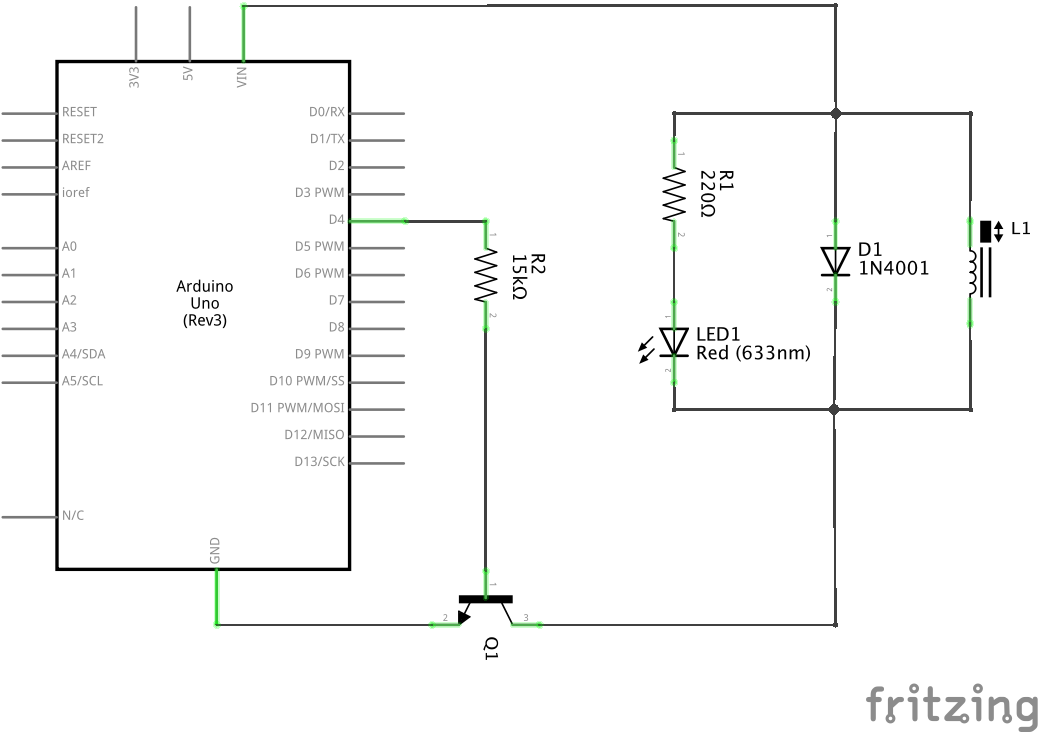
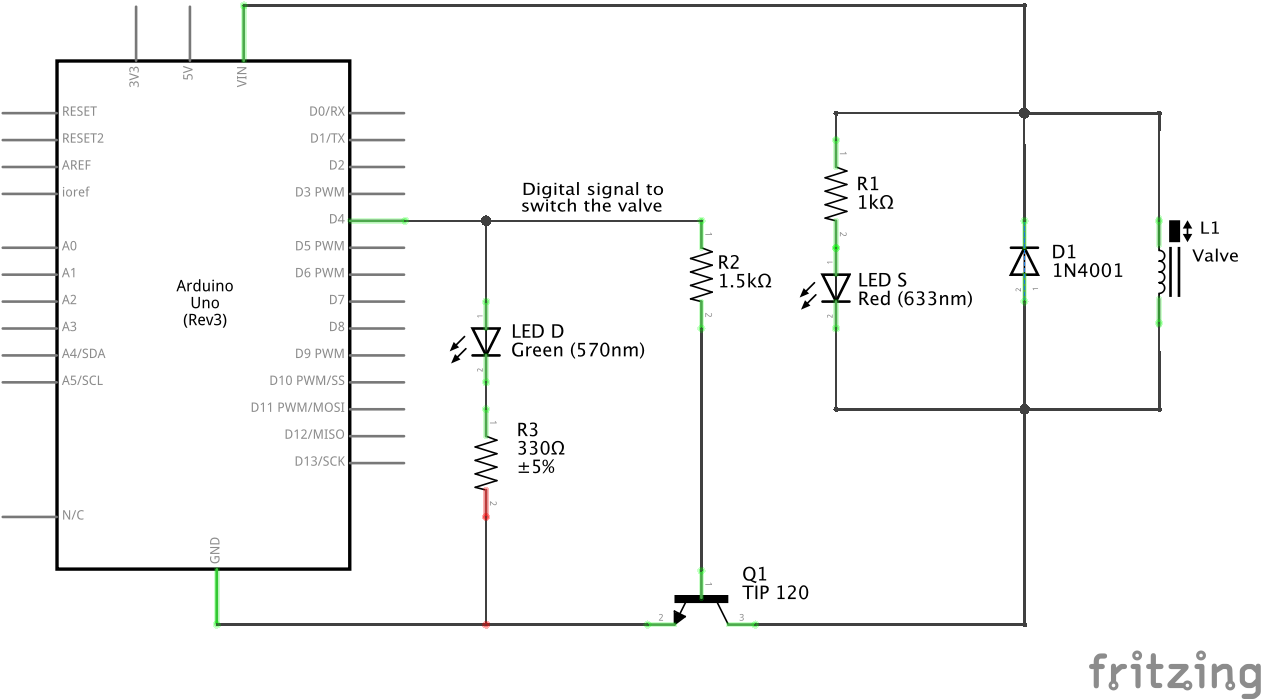
Updating research papers

diff --git a/research.html b/research.html
@@ -14,15 +14,21 @@ learning, always from a physics perspective.</p>
 
 <ul class="publications">
   <li>
+    <b>T. Mosqueiro</b>, C. Cook, R. Huerta, J. Gadau, B. Smith, N. Pinter-Wollman.
+    <a href="https://arxiv.org/abs/1703.04731" target="_blank"> Task
+    allocation and site fidelity jointly influence foraging regulation
+    in honey bee colonies</a> <i>Submitted (under review).</i>
+  </li>
+    <li>
+    R. F. Guariento, <b>T. Mosqueiro</b>, P. Matias, V. B. Cesarino, L. O. B. Almeida, J. F. W. Slaets, L. P. Maia, R. D. Pinto.
+    <a href="https://www.researchgate.net/publication/304787186_Automated_pulse_discrimination_of_two_freely-swimming_weakly_electric_fish_and_analysis_of_their_electrical_behavior_during_a_dominance_contest"
+    target="_blank">Automated pulse discrimination of two freely-swimming weakly electric fish and analysis of their electrical behavior during a dominance contest</a> <i>Accepted for Journal of Physiology - Paris (preprint available).</i>
+  </li>
+  <li>
     R. Huerta, <b>T. Mosqueiro</b>, J. Fonollosa, N. F.
     Rulkov, I. Rodriguez-Lujan.
     <a href="https://www.researchgate.net/publication/305385157_Online_decorrelation_of_humidity_and_temperature_in_chemical_sensors_for_continuous_monitoring?ev=contentfeed&homeFeedVariantCode=oc_EU&_iepl[viewId]=unoxBpaJWAf9rBVJ0WRl7gbf&_iepl[singleItemViewId]=1jkbDntBNpc7qk4Q1DQJIDnR&_iepl[activityId]=731420972683287%2C731420574224412%2C731419810865167&_iepl[activityType]=person_add_publication&_iepl[activityTimestamp]=1468825549&_iepl[homeFeedVariantCode]=oc_EU&_iepl[contexts][0]=homeFeed&_iepl[interactionType]=publicationView"
     target="_blank">Online decorrelation of humidity and temperature in chemical sensors for continuous monitoring.</a> <i>Chemometrics and Intelligent Laboratory Systems (2016).</i>
-  </li>
-  <li>
-    R. F. Guariento, <b>T. Mosqueiro</b>, P. Matias, V. B. Cesarino, L. O. B. Almeida, J. F. W. Slaets, L. P. Maia, R. D. Pinto.
-    <a href="https://www.researchgate.net/publication/304787186_Automated_pulse_discrimination_of_two_freely-swimming_weakly_electric_fish_and_analysis_of_their_electrical_behavior_during_a_dominance_contest"
-    target="_blank">Automated pulse discrimination of two freely-swimming weakly electric fish and analysis of their electrical behavior during a dominance contest</a> <i>Submitted (preprint available online).</i>
   </li>
   <li>
     <b>T. Mosqueiro</b>, M. Strube-Bloss, R. Tuma, R. Pinto, B. Smith

diff --git a/_includes/head.html b/_includes/head.html
@@ -23,6 +23,6 @@
     <link href='https://fonts.googleapis.com/css?family=Open+Sans|Montserrat' rel='stylesheet' type='text/css'>
     <link href='https://fonts.googleapis.com/css?family=Lato|Raleway' rel='stylesheet' type='text/css'>
 
-    {% include ganalytics.html %}
+    <!-- {% include ganalytics.html %} -->
 
   </head>

diff --git a/about/index.html b/about/index.html
@@ -5,11 +5,7 @@ layout: standard_layout
 
 <h1>About</h1>
 
-
-<div class="col-md-3 col-md-push-9">
-
-</div>
-<div class="col-md-9 col-md-pull-3">
+<div style="width: 80%;">
   <p>
     My name is Thiago Mosqueiro, physicist by training, and big fan of
     rock 'n roll, movies and science (especially together). I am

diff --git a/_posts/2017-02-15-Women-Hard-Sciences.md b/_posts/2017-02-15-Women-Hard-Sciences.md
@@ -1,0 +1,65 @@
+---
+layout: posts
+title: The day I failed my female classmates
+tags: Education NotReady
+mathjax: false
+comments: true
+---
+
+![](/files/posts/2017-women-science/IMG_20161202_094958_snap.jpg){: .post-img-inset}
+
+<!-- Split Here - IMG-snapshot -->
+
+I feel very strongly about this topic: gender inequality in science and technology. Partially, because my wife is a PhD candidate in Computer Science. Not to say many friends in academy or industry. This September, I was invited by one of the leaders of the [PyLadies - São Carlos](http://saocarlos.pyladies.com/) chapter to give a brief talk. I loved the idea and decided to speak of some of the many wonderful female scientists I interacted with during my short experience in academia. After the talk, we had an open session to discuss many of the issues that most women still face in science-based careers (both in academia and industry). During this session, I remembered a story that happened almost ten years ago. I decided to share this story and openly acknowledge it.
+
+<!-- Split Here - Snapshot -->
+
+<img src="/files/posts/2017-women-science/IMG_20161202_094958.jpg"
+alt="..." class='post-img' style="width:80%;" />
+
+
+
+## Once upon a time...
+
+In my freshman year, we were 40. We were  36 men and four women. This ratio is pretty close to that of almost all physics courses around the world, although this has been changing; slowly, but changing. More precisely, improving. In our first semester, *Introduction to Computer Programming* was mandatory to everyone. The instructor was knowleadgeble and very didactic, except that he loved to stop the class at random points for jokes. I used to find most of them funny. In fact, most of them were about his ex-wife, who - according to him - would love to go to Paris and spend "his" money. Not all jokes were about his wife, many were about women in general. The punch line punctuated how they aren’t that smart, or how much they love spending with makeup, or how they would always look for guys with expensive cars. 
+
+This professor was popular. Everyone was enjoying the jokes and laughing together. Except for those four students. As a matter of fact, especially because this course represents the first contact physics students have with computer programming, the jokes were a bit too often, if not completely inappropriate. 
+
+Obviously, there was a complaint directly to the dean. Maybe this was a bit harsh (going directly to the Dean), but let us move on for now. The Dean, of course, did not enjoy hearing that, and talked to this professor, asking to look out for inappropriate jokes and behave more professionally. 
+
+In the next class, everyone was astonished when the professor started the class explaining what happened: that two female students complained about the jokes, and because of that he would refrain from telling more jokes during classes. And then he said that going to the dean directly was completely unnecessary and exaggerated, as they could have "simply" asked him to stop with the jokes.
+
+The next thing I remember was a fuss,  everyone looking around, trying to figure out who the “two female students” were. Two out of four female students. Hard to beat these odds.
+
+At that time, the victims became the oppressors.
+
+From the perspective of virtually everyone, it was clear that this complaint was unfounded, unfair, and unrealistic. People would say things like, "it's probably that time of the month". Or worse. I do remember having conflicting feelings about this: "but the jokes are funny, what is the matter after all? But if they are complaining, do these things offend them?"
+
+The two students who complained to the Dean did come forward, in front of everyone, and revealed that they were the cause of all that. Their message was very clear:
+
+> We are not comfortable with such jokes, and we want an environment that is minimally professional.
+
+Well, not in these exact words, it’s been more than ten years. But that is close enough. More than anything in this whole issue, this marked me a lot and serves as an example until today that...
+
+After that, the jokes didn't stop.
+
+
+
+## My opinion about this matter
+
+I am not convinced that everyone realizes how absurd this situation was. For some, our female classmates were being too obnoxious and lacked a better sense of humor. "Their skin were too soft, they would hardly graduate from such a hard-core science discipline." Guess what? Three of the four did drop college and looked for something else to do with their lives. No surprise for such an unwelcoming environment. I am always happy when I hear about their successes, knowing that this awful experience did not hinder the development of their carriers.
+
+Although this topic is now trending everywhere, women contributed to science and philosophy since the earliest times. [Merit-Ptah was not only chief physician back in 2700 BC](https://en.wikipedia.org/wiki/Women_in_medicine#Ancient_medicine) but possibly the first women to enter the history books holding a position related to a scientific field. It seems that the scales have always been unbalanced, however, because the access to higher education has often been either restricted or not very welcoming to all genders. For instance, although there are examples of female scholars during the Middle Ages, the first universities to appear in Europe (circa 1200) disregarded applications from women. It was only in the 1700's when the first female scholar earned an academic chair: [Laura Bassi](https://en.wikipedia.org/wiki/Laura_Bassi), a physicist who lived between 1711 and 1778. She is an important example because it shows women *rocking* in hard sciences since the eighteenth century, despite all the adversities. From that point on, many role models rapidly emerged: for starters, [Marie Curie](https://en.wikipedia.org/wiki/Marie_Curie), who earned two Nobel prizes; [Ada Lovelace](https://en.wikipedia.org/wiki/Ada_Lovelace), who created the first computer algorithm; [Emmy Noether](https://en.wikipedia.org/wiki/Emmy_Noether), the mathematician behind the Noether's theorem that links symmetries with conservation laws (a big deal in physics).
+
+There are plenty of role models, and it is important to recognize and acknowledge them. We start to learn what we *should* and *shouldn't* do when we are kids (e.g., see [this](http://link.springer.com/article/10.1023/A:1023574427720)): children can recognize sex very early, and associate with it sets of objects and actions. In other words, the more we see of "boys play with trucks, girls play with makups", the stronger we associate separate roles for each sex (likely gender too). This discrete view of human behavior generates implicit bias, and directly affects roles of men and women: [men are linked to math, women with liberal arts](http://www.pnas.org/content/106/26/10593.short).
+
+My point here is simple: gender bias is a social construct, and by ignoring its existence and that of female role models we reinforce the idea that science and technology is no place for women. I acknowledge this subject is a really complex field of study(e.g. see [gender development, ](https://www.ncbi.nlm.nih.gov/pmc/articles/PMC3747736/)), and I will not pretend to be an expert. On the contrary, I believe we should all be reading and discussing more about these issues. It is important to recognize and acknowledge that there is a gender gap in science and technology.
+
+I wonder, among those who teach Noether's theorem, how many of them mention Noether is the name of a female mathematician that was leading a field completely dominated by men? How about teaching how the first computer program, a complex algorithm that evaluates Bernoulli Numbers, was wrighten by a women? It is important to acknowledge the role models whenever possible, because students can then identify to these role models. This kind of connection motivates students to keep growing and challenge themselves. In a way, the story I want to share is an example of subtle behaviors, often seen in academic environments, I believe the number of people mentioning such details is growing, and in many instances thanks to efforts such as PyLadies, RailsGirls, WIDS, etc.
+
+This story became a personal reminder of a situation which I did not recognize immediately. If you, reader, by any chance is one of the two students from the story above, I am sorry I did not stand up and say anything. I do regret this. A lot. But from that mistake, ...
+
+<img src="/files/posts/2017-women-science/IMG_20161202_142427.jpg"
+alt="..." class='post-img' style="width:80%;" />
+
+There is no good in sharing names or any more details. It is enough to say that this professor does not work anymore in the same university, and to the best of my knowledge is indeed a good person. He is/was maybe just blind.

diff --git a/_posts/2017-03-01-Solenoid.md b/_posts/2017-03-01-Solenoid.md
@@ -17,7 +17,7 @@ Thanks a lot for help from Brenno Barbosa, Lirio Onofre and Reynaldo Pinto.
 
 <!-- Split Here - Snapshot -->
 
-<img src="/files/posts/2017-women-science/IMG_20161202_094958.jpg"
+<img src="/files/posts/2017-solenoid/IMG_20170214_211534.jpg"
 alt="..." class='post-img' style="width:80%;" />
 
 
@@ -47,12 +47,24 @@ a black jumper.
 
 Here is an sketch of how the final circuit looks like.
 
-<img src="/files/posts/2017-solenoid/circuit.png" alt="..." class='post-img' style="width:70%;" />
+<img src="/files/posts/2017-solenoid/circuit.png" alt="..." class='post-img' style="width:90%;" />
+
+To help debugging the final circuit and code, we added two LEDs. LED D signals
+when the arduino leg 7 is set to ON. LED S lights if there is voltage coming
+from Vin and the circuit is closed. If everything is working properly, LEDs S
+and D should both blink together.
 
 
 ## Syncing and recording time
 
-a
+<!-- {% gist d3bd68d05f8e5f404a2828a74a18bc49 %} -->
+
+After running this for over two hours, we found that Arduino has an intrinsic
+jitter of about 400$\mu$s and a latency very close to zero. Notice that the
+distribution is skewed: it goes from -250$\mu$s to +400$\mu$s.
+
+<img src="/files/posts/2017-solenoid/jitter.jpg" alt="..." class='post-img' style="width:80%;" />
+
 
 ## Finalized project
 
